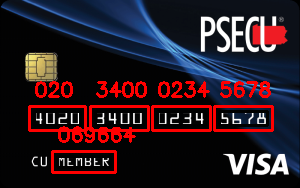
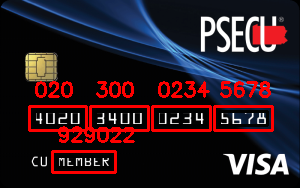
Last Modification regarding Edge extractor

diff --git a/ocr_template_match.py b/ocr_template_match.py
@@ -74,7 +74,7 @@ im = cv2.filter2D(gray, -1, kernel)
 mid = cv2.GaussianBlur(im,(0,0),21,21)
 th2 = cv2.adaptiveThreshold(mid,255,cv2.ADAPTIVE_THRESH_MEAN_C,\
             cv2.THRESH_BINARY,11,2)
-im2 = cv2.addWeighted(im,1.5,th2,-0.5,0)
+im2 = cv2.addWeighted(gray,0.75,th2,0.25,0)
 
 
 cv2.imshow("im", im)
@@ -84,7 +84,7 @@ cv2.imshow("im2", im2)
 # apply a tophat (whitehat) morphological operator to find light
 # regions against a dark background (i.e., the credit card numbers)
 
-tophat = cv2.morphologyEx(im2, cv2.MORPH_TOPHAT, rectKernel)
+tophat = cv2.morphologyEx(im, cv2.MORPH_TOPHAT, rectKernel)
 
 #tophat = cv2.resize(tophat,(0,0),fx = 3,fy=3);
 #tophat = cv2.resize(tophat,(0,0),fx = 6,fy=6)
@@ -204,7 +204,7 @@ for (i, (gX, gY, gW, gH)) in enumerate(locs):
 	# extract the group ROI of 4 digits from the grayscale image,
 	# then apply thresholding to segment the digits from the
 	# background of the credit card
-	group = im2[gY - 5:gY + gH + 5, gX - 5:gX + gW + 5]
+	group = gray[gY - 5:gY + gH + 5, gX - 5:gX + gW + 5]
 	# #New Layer 
 	# mid2 = cv2.GaussianBlur(group,(0,0),21,21)
 	# th2 = cv2.adaptiveThreshold(mid2,255,cv2.ADAPTIVE_THRESH_MEAN_C,\
